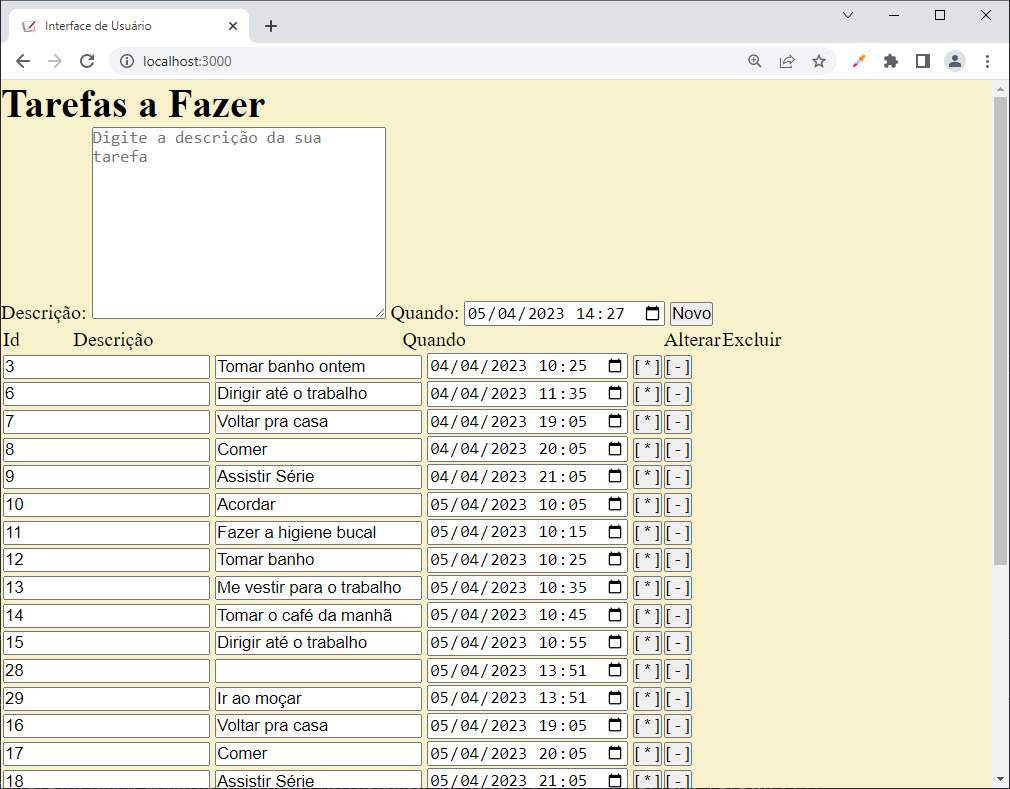
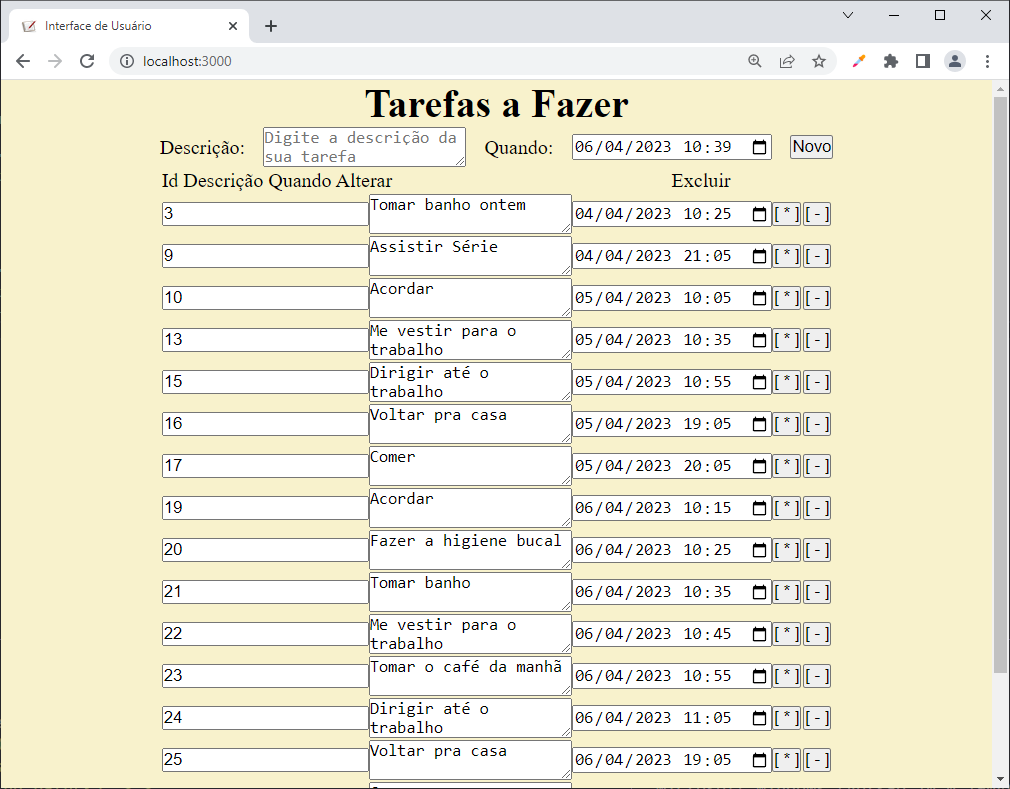
aula12

diff --git a/2des/01-pwbe/aula12/afazer/public/index.css b/2des/01-pwbe/aula12/afazer/public/index.css
@@ -5,4 +5,14 @@
 
 body{
     background-color: rgb(248, 242, 204);
+    display: flex;
+    flex-direction: column;
+    align-items: center;
+}
+
+form{
+    display: flex;
+    flex-direction: row;
+    align-items: center;
+    justify-content: space-between;
 }
